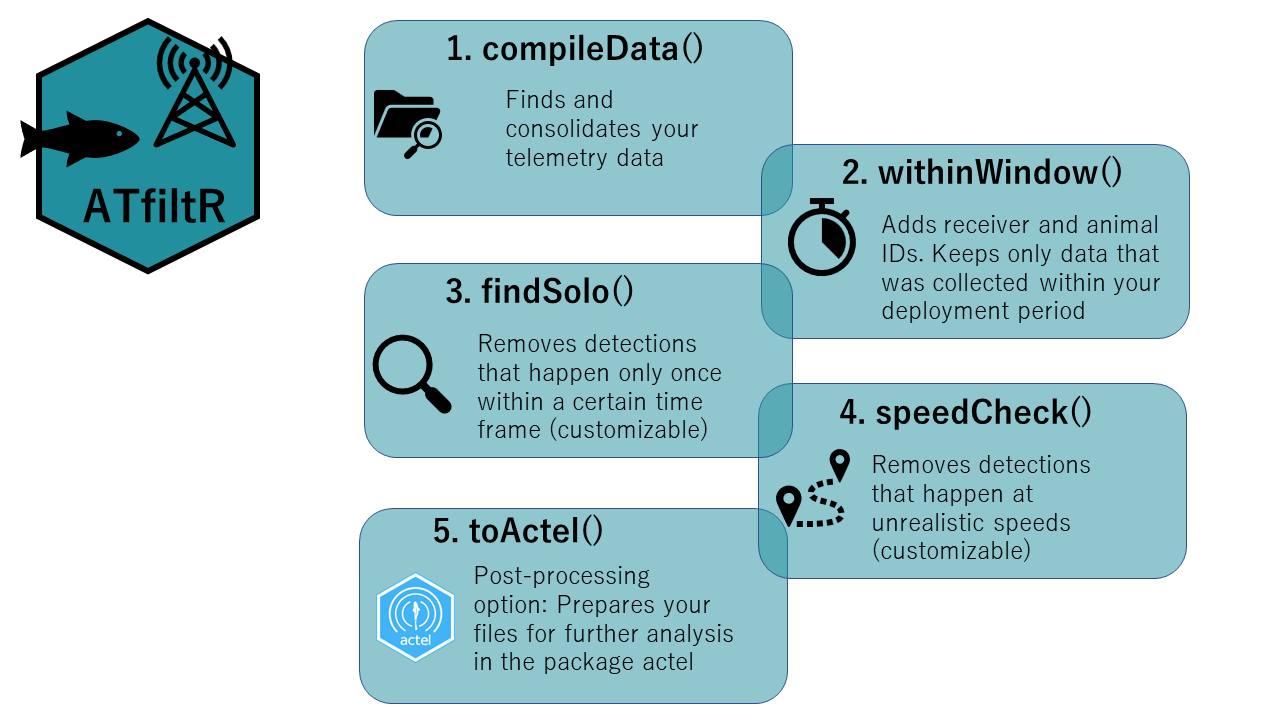
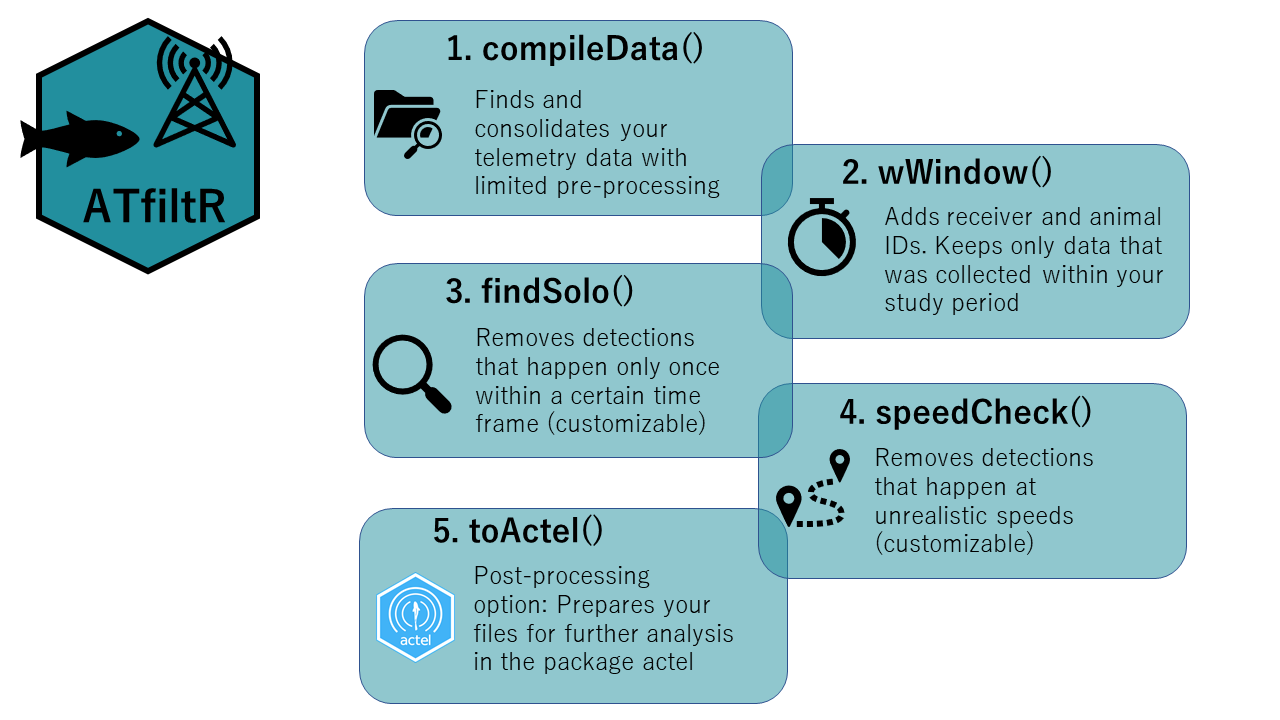
Vignetos

diff --git a/README.md b/README.md
@@ -10,22 +10,28 @@
 
 **ATfiltR** is one solution for:  
 - compiling your acoustic telemetry detection files  
-- removing duplicates (and save them elsewhere)  
-- attributing animal ID to detections (and save tags that don’t belong
-to you elsewhere)  
-- removing detections which fall outside of the deployment period  
+- removing duplicates (and saving them elsewhere)  
+- attributing animal ID and location attributes to detections (and
+saving tags that don’t belong to you elsewhere)  
+- removing detections which fall outside of the deployment period (and
+saving them elsewhere)  
 - filtering ghost detections via a (customizable) “solitary detections”
-filter  
-- filtering ghost detections via a (customizable) “swimming speed filter
+filter (and saving them elsewhere)  
+- filtering ghost detections via a (customizable) “swimming speed”
+filter (and saving them elsewhere)
 
 It is meant as an automatic way to process a lot of data and filter
 detections in bulk, based on set rules (e.g. speed) and with limited
 user input (i.e. you will not choose what detections are to be kept or
-erased each time an irregularity is found). Finer, fully user
-interactive filtering (and other cool stuff) is available on the package
-[actel](https://github.com/hugomflavio/actel), and we provide here a
-function that allows you to prepare data that you processed in ATfiltR
-for basic use in actel.
+erased each time an irregularity is found). We designed ATfiltR to be a
+little “formatting” intensive for the user, and we are hopeful that
+using it is straightforward for all.
+
+Finer, fully user interactive filtering (and other cool stuff) is
+available in the package [actel](https://github.com/hugomflavio/actel),
+and we provide here a function that allows you to prepare data that you
+processed in ATfiltR for basic use in actel (to save you the headache of
+reformatting everything).
 
 ![](vignettes/ATfiltR-graph-abstract.png)
 
@@ -38,3 +44,7 @@ You can install the development version of ATfiltR from
 # install.packages("devtools")
 devtools::install_github("FelicieDh/ATfiltR")
 ```
+
+## Using ATfiltR
+
+[Getting started](https://github.com/)
